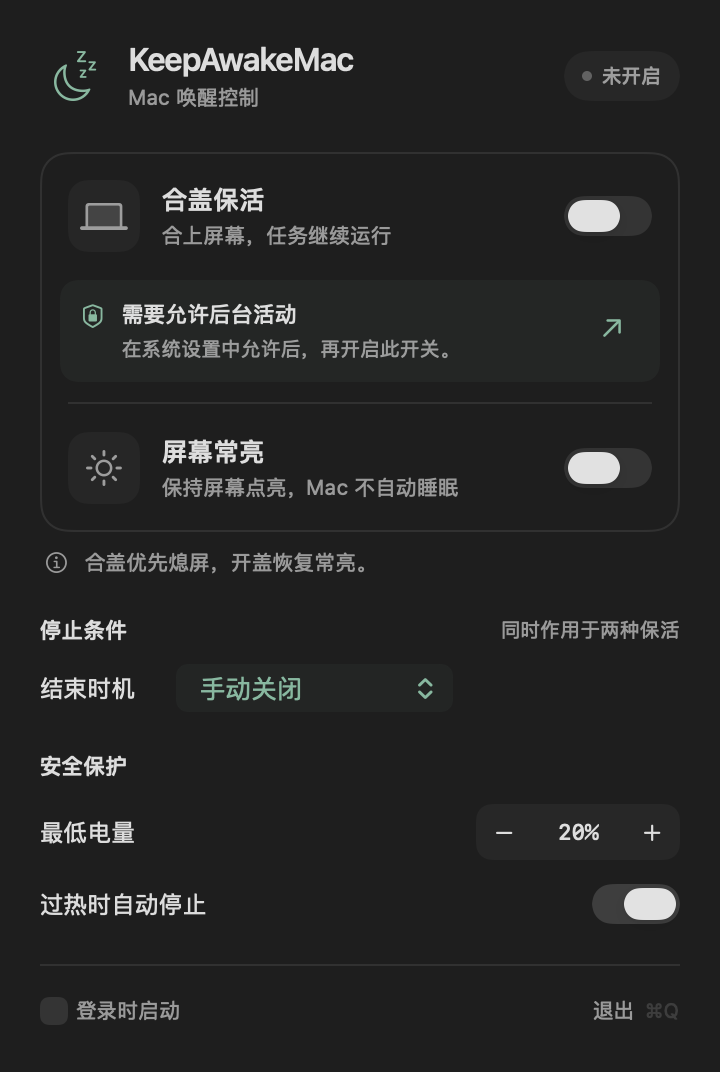
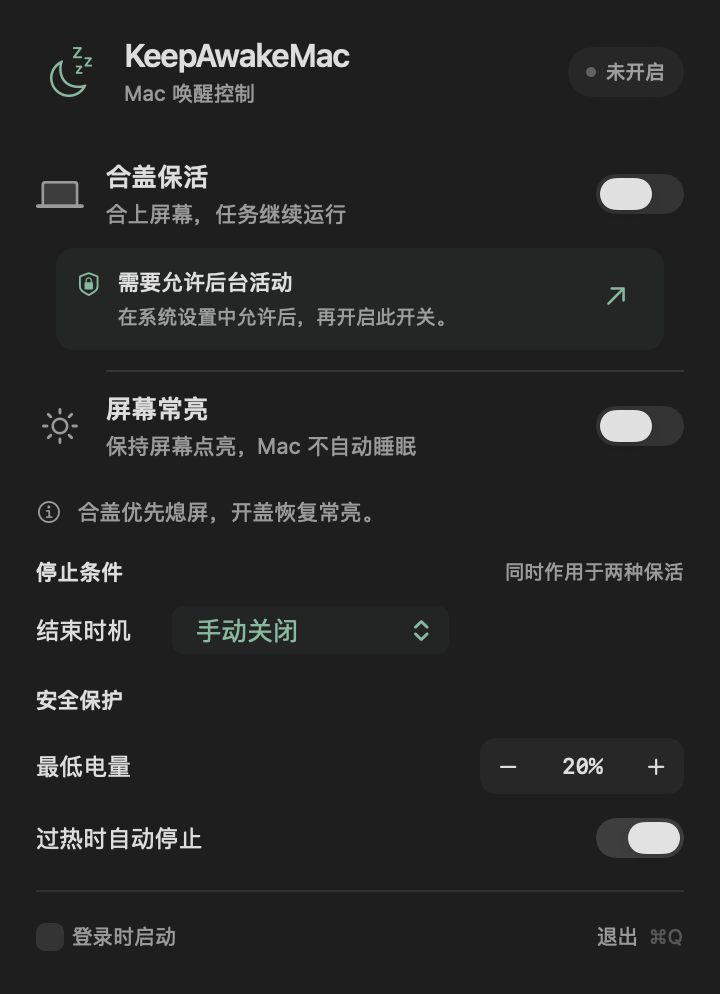
Restore native translucent menu surface and simplify layout

diff --git a/App/Views/MenuContentView.swift b/App/Views/MenuContentView.swift
@@ -6,14 +6,13 @@ struct MenuContentView: View {
     @EnvironmentObject var state: AppState
     @Environment(\.colorScheme) private var colorScheme
     @Environment(\.accessibilityReduceMotion) private var reduceMotion
+    @Environment(\.accessibilityReduceTransparency) private var reduceTransparency
     @Environment(\.colorSchemeContrast) private var contrast
 
     private var accent: Color {
         colorScheme == .dark ? Color(red: 0.48, green: 0.73, blue: 0.62) : Color(red: 0.20, green: 0.43, blue: 0.34)
     }
-    private var canvas: Color { Color(NSColor.windowBackgroundColor) }
-    private var surface: Color { Color(NSColor.controlBackgroundColor) }
-    private var secondary: Color { Color(NSColor.secondaryLabelColor) }
+    private var secondary: Color { .secondary }
     private var hairline: Color { Color.primary.opacity(contrast == .increased ? 0.3 : 0.1) }
 
     var body: some View {
@@ -24,11 +23,16 @@ struct MenuContentView: View {
         }
         .frame(width: 360)
         .frame(maxHeight: panelHeight)
-        .background(canvas)
+        // MenuBarExtra supplies the native glass. An opaque fill hides its material.
+        .background {
+            if reduceTransparency || contrast == .increased {
+                Color(NSColor.windowBackgroundColor)
+            }
+        }
         .tint(accent)
         .accentColor(accent)
         .font(.system(size: 12))
-        .foregroundStyle(Color(NSColor.labelColor))
+        .foregroundStyle(.primary)
         .animation(reduceMotion ? nil : .spring(response: 0.3, dampingFraction: 1), value: state.anyAwake)
         .task(id: "\(state.triggerMode.rawValue):\(state.agent.rawValue)") {
             if state.triggerMode == .agentTask && state.canEditSettings { await state.refreshAgentTasks() }
@@ -38,14 +42,13 @@ struct MenuContentView: View {
     private var panelHeight: CGFloat { min(720, (NSScreen.main?.visibleFrame.height ?? 900) - 60) }
 
     private var content: some View {
-        VStack(alignment: .leading, spacing: 20) {
+        VStack(alignment: .leading, spacing: 16) {
             header
             VStack(alignment: .leading, spacing: 9) {
                 modeControls
                 Label("合盖优先熄屏，开盖恢复常亮。", systemImage: "info.circle")
-                    .font(.system(size: 10.5))
-                    .foregroundStyle(secondary)
-                    .padding(.horizontal, 2)
+                    .font(.system(size: 11))
+                    .foregroundStyle(.secondary)
                     .help("合盖保活时，内置与外接屏幕都会熄灭。屏幕常亮请求在开盖后恢复。")
             }
             stopConditions
@@ -59,7 +62,7 @@ struct MenuContentView: View {
             }
             footer
         }
-        .padding(20)
+        .padding(18)
     }
 
     private var header: some View {
@@ -116,7 +119,7 @@ struct MenuContentView: View {
                         .padding([.horizontal, .bottom], 14)
                 }
             }
-            Rectangle().fill(hairline).frame(height: 1).padding(.horizontal, 14)
+            Divider().padding(.leading, 35)
             modeRow(title: "屏幕常亮", subtitle: screenSubtitle, symbol: "sun.max",
                     isOn: Binding(get: { state.screenAwake }, set: { enabled in
                         Task { await state.setScreenAwake(enabled) }
@@ -126,8 +129,6 @@ struct MenuContentView: View {
                     .padding([.horizontal, .bottom], 14)
             }
         }
-        .background(surface, in: RoundedRectangle(cornerRadius: 14))
-        .overlay(RoundedRectangle(cornerRadius: 14).strokeBorder(hairline, lineWidth: 1))
     }
 
     private func modeRow(title: String, subtitle: String, symbol: String, isOn: Binding<Bool>) -> some View {
@@ -135,13 +136,11 @@ struct MenuContentView: View {
             Image(systemName: symbol)
                 .font(.system(size: 17, weight: .regular))
                 .foregroundStyle(isOn.wrappedValue ? accent : secondary)
-                .frame(width: 36, height: 36)
-                .background(isOn.wrappedValue ? accent.opacity(0.10) : Color.primary.opacity(0.04),
-                            in: RoundedRectangle(cornerRadius: 10))
+                .frame(width: 24, height: 28)
                 .accessibilityHidden(true)
             VStack(alignment: .leading, spacing: 4) {
                 Text(title).font(.system(size: 13, weight: .semibold))
-                Text(subtitle).font(.system(size: 10.5)).foregroundStyle(secondary)
+                Text(subtitle).font(.system(size: 11)).foregroundStyle(.secondary)
                     .fixedSize(horizontal: false, vertical: true)
             }
             Spacer(minLength: 6)
@@ -151,7 +150,7 @@ struct MenuContentView: View {
                 .disabled(state.isBusy)
                 .help(title == "合盖保活" ? "合盖后继续运行任务，同时关闭显示器" : "防止闲置熄屏与系统睡眠；合盖时让位于熄屏")
         }
-        .padding(14)
+        .padding(.vertical, 10)
     }
 
     private var lidSubtitle: String {
@@ -273,7 +272,7 @@ struct MenuContentView: View {
                         .frame(width: 38, height: 7)
                 }
                 .font(.system(size: 11)).padding(11)
-                .background(surface, in: RoundedRectangle(cornerRadius: 8))
+                .background(Color.primary.opacity(0.04), in: RoundedRectangle(cornerRadius: 8))
                 .accessibilityLabel("正在读取任务")
             } else if let error = state.taskError {
                 failureNotice(title: "暂时无法读取任务，请刷新重试", message: error)
@@ -285,7 +284,7 @@ struct MenuContentView: View {
                         .fixedSize(horizontal: false, vertical: true)
                 }
                 .frame(maxWidth: .infinity, alignment: .leading).padding(12)
-                .background(surface, in: RoundedRectangle(cornerRadius: 9))
+                .background(Color.primary.opacity(0.04), in: RoundedRectangle(cornerRadius: 9))
             } else {
                 Picker("等待的任务", selection: $state.selectedTaskID) {
                     ForEach(state.agentTasks) { Text($0.title).tag($0.id) }

diff --git a/Tests/MenuPreview.swift b/Tests/MenuPreview.swift
@@ -61,13 +61,15 @@ struct MenuPreview {
             let view = MenuContentView().environmentObject(state)
                 .environment(\.colorScheme, name == "dark" ? .dark : .light)
                 .environment(\.controlActiveState, .key)
-            let host = NSHostingView(rootView: view)
+            let host = NSHostingView(rootView: view.background(Color.clear))
             host.appearance = appearance
             _ = host.fittingSize
             // Let the view's async discovery finish before capturing empty/ready states.
             try await Task.sleep(nanoseconds: 100_000_000)
             host.frame = NSRect(origin: .zero, size: host.fittingSize)
             let window = NSWindow(contentRect: host.frame, styleMask: .borderless, backing: .buffered, defer: false)
+            window.isOpaque = false
+            window.backgroundColor = .clear
             window.appearance = appearance
             window.contentView = host
             try await Task.sleep(nanoseconds: 100_000_000)
@@ -84,6 +86,18 @@ struct MenuPreview {
             host.frame = NSRect(origin: .zero, size: size)
             host.layoutSubtreeIfNeeded()
             guard let bitmap = host.bitmapImageRepForCachingDisplay(in: host.bounds) else { fatalError("No bitmap") }
+            host.cacheDisplay(in: host.bounds, to: bitmap)
+            // The content must leave the system's glass visible, except when
+            // accessibility settings explicitly request an opaque surface.
+            let alpha = bitmap.colorAt(x: 4, y: 4)!.alphaComponent
+            let opaque = NSWorkspace.shared.accessibilityDisplayShouldReduceTransparency ||
+                         NSWorkspace.shared.accessibilityDisplayShouldIncreaseContrast
+            precondition(opaque ? alpha > 0.99 : alpha < 0.01,
+                         "Unexpected menu background opacity: \(name) \(alpha)")
+            // PNGs cannot capture the system's behind-window material. Render a
+            // neutral backdrop only for readable layout previews, after testing alpha.
+            host.rootView = view.background(Color(NSColor.windowBackgroundColor))
+            host.layoutSubtreeIfNeeded()
             host.cacheDisplay(in: host.bounds, to: bitmap)
             guard let png = bitmap.representation(using: .png, properties: [:]) else { fatalError("No PNG") }
             try png.write(to: destination.appendingPathComponent("\(name).png"))

diff --git a/docs/DEVELOPMENT.md b/docs/DEVELOPMENT.md
@@ -29,7 +29,7 @@ App 每 5 秒发出心跳，helper 的会话租期为 20 秒，同时监视 App 
 
 ## 检查
 
-先按 README 构建 Debug 版本。`scripts/check-helper.sh` 使用匿名 XPC、模拟电源命令、固定电池快照和临时 Agent 记录，不需要后台授权，也不改变真实睡眠设置。`scripts/check-menu.sh` 渲染 10 种状态，不捕获桌面、不执行真实电源操作。
+先按 README 构建 Debug 版本。`scripts/check-helper.sh` 使用匿名 XPC、模拟电源命令、固定电池快照和临时 Agent 记录，不需要后台授权，也不改变真实睡眠设置。`scripts/check-menu.sh` 渲染 10 种状态，并检查内容背景是否按当前辅助功能设置保留透明度；不捕获桌面、不执行真实电源操作。导出的布局 PNG 使用中性底色便于阅读，不能代替系统毛玻璃透色的实机验收。
 
 以下 Debug 诊断无需批准 root helper：
 
